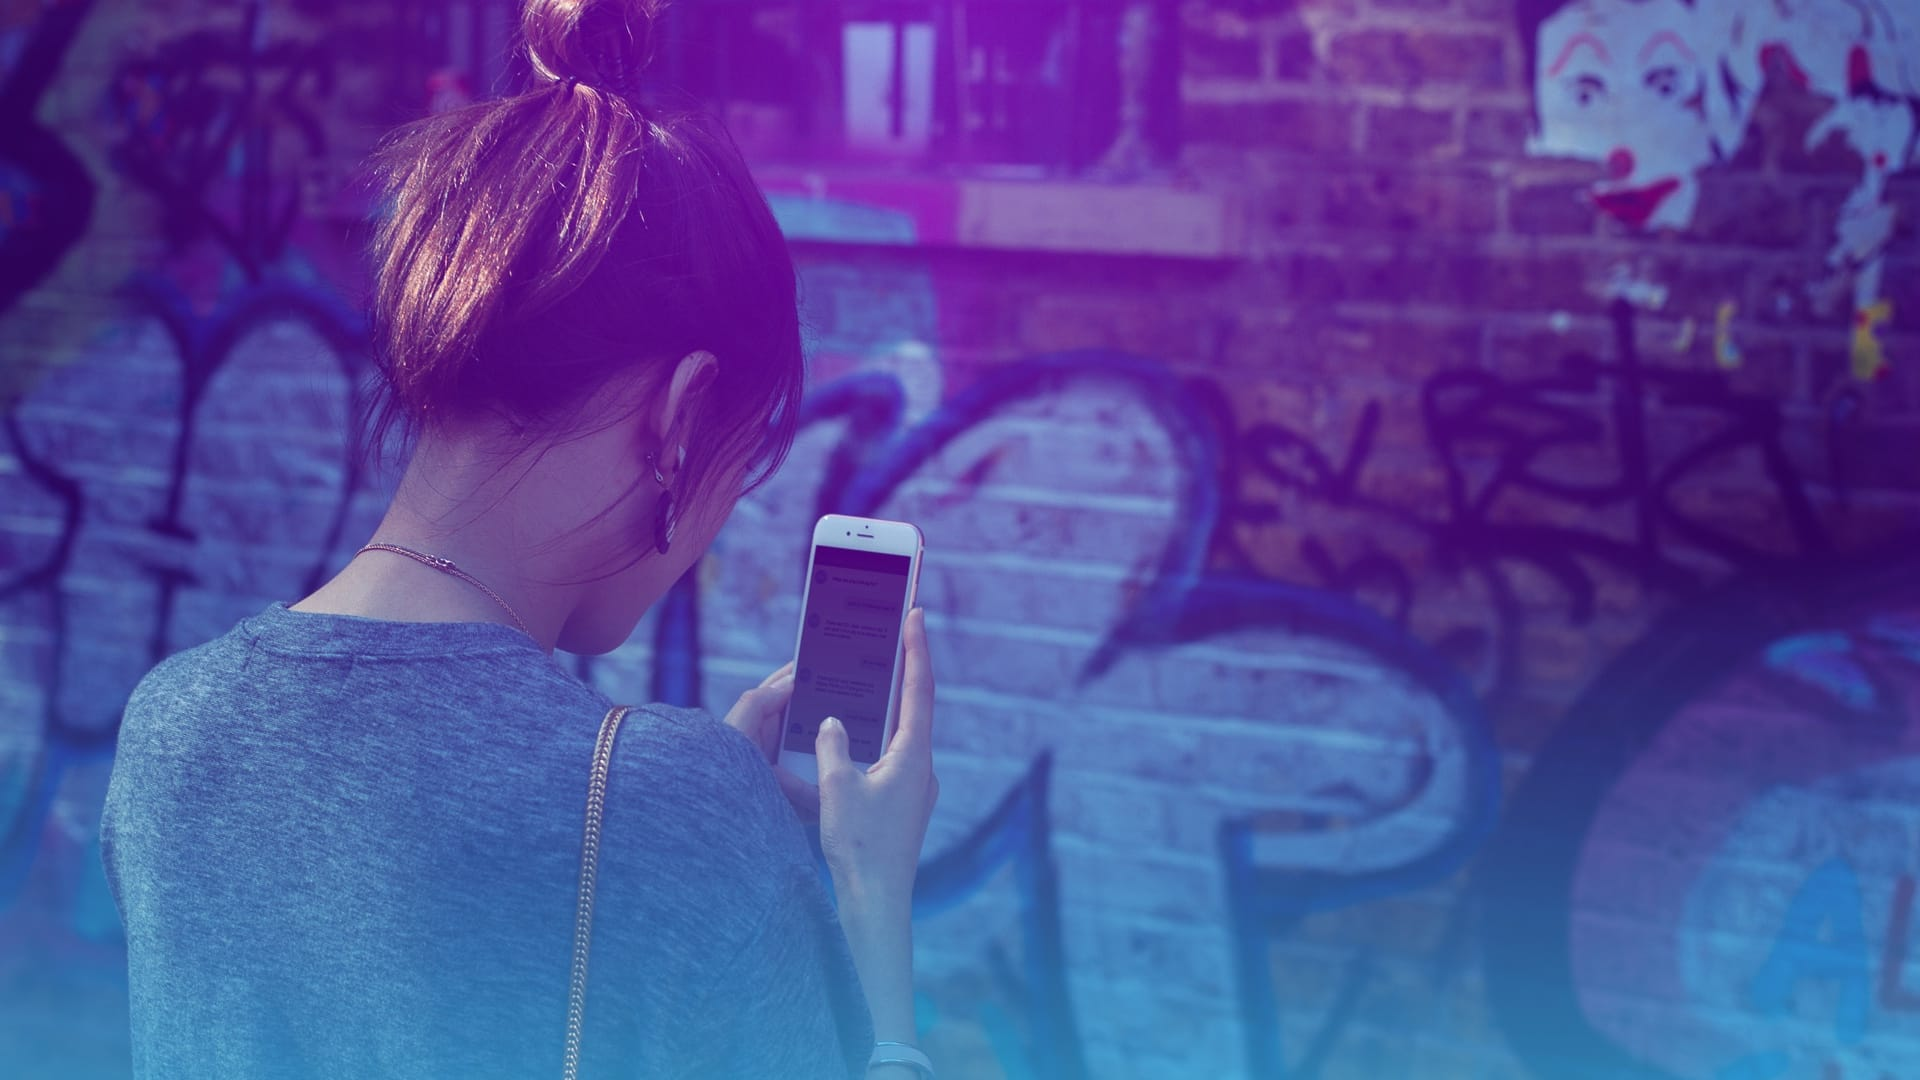
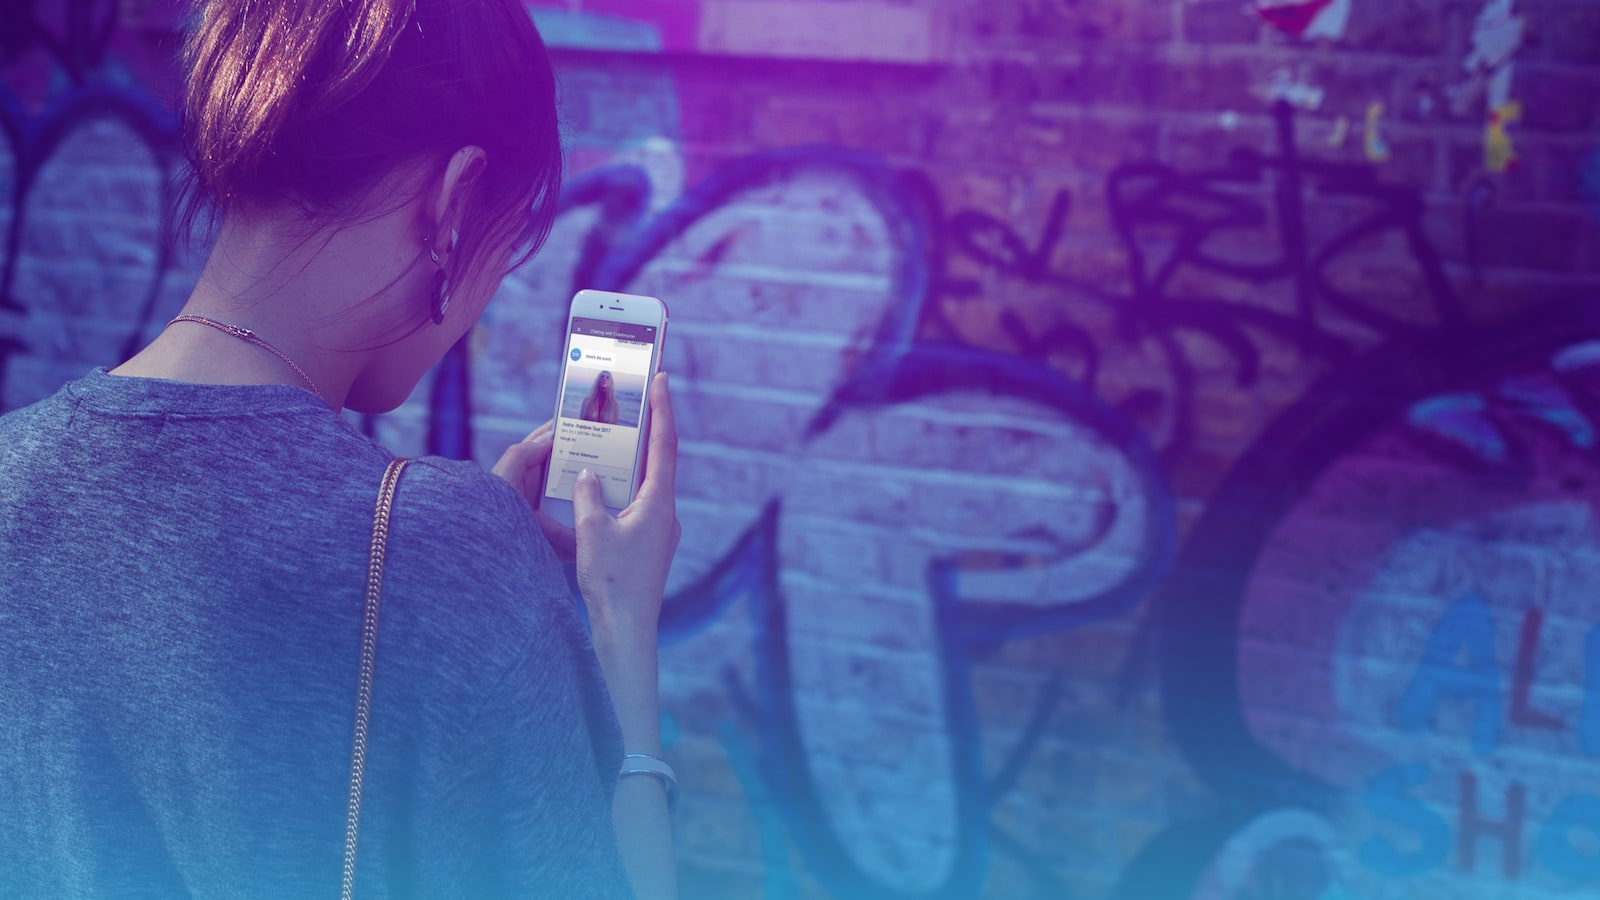
Improved bg image quality

diff --git a/_layouts/home.html b/_layouts/home.html
@@ -37,7 +37,9 @@ layout: default
         medium-10 medium-centered large-8 columns
     {% endcase %}
   {% endcapture %}
-  <article id="product-{{ product.title | slugify }}" data-magellan-target="product-{{ product.title | slugify }}" class="product text-center image-interest-{{ product.bg-image-interest }}" style="background-image:url({{ product.bg-image | prepend: 'assets/images/' | relative_url }})">
+  {% assign bgImg1x = product.bg-image | prepend: 'assets/images/' | relative_url %}
+  {% assign bgImg2x = bgImg1x | replace: '.jpg', '@2x.jpg' %}
+  <article id="product-{{ product.title | slugify }}" data-magellan-target="product-{{ product.title | slugify }}" class="product text-center image-interest-{{ product.bg-image-interest }}" data-interchange="[{{ bgImg1x }}, small], [{{ bgImg2x }}, xxlarge], [{{ bgImg2x }}, retina]">
     <div class="product-icon" data-sticky-container>
       <div class="sticky" data-sticky data-options="anchor:product-{{ product.title | slugify }};marginTop:5;stickyOn:medium">
         <div class="sticky-content">

diff --git a/early-access.html b/early-access.html
@@ -10,10 +10,11 @@ twitter-image: /assets/images/early-access-open-twitter-large.png
 ---
 
 {% assign sorted_products = site.products | sort: 'order' %}
-{% assign image = sorted_products.first.bg-image | prepend: 'assets/images/' | relative_url %}
+{% assign bgImg1x = sorted_products.first.bg-image | prepend: 'assets/images/' | relative_url %}
+{% assign bgImg2x = bgImg1x | replace: '.jpg', '@2x.jpg' %}
 {% assign image-interest = sorted_products.first.bg-image-interest %}
 
-<div class="eap-page image-interest-{{ image-interest }}" style="background-image:url({{ image }})">
+<div class="eap-page image-interest-{{ image-interest }}" data-interchange="[{{ bgImg1x }}, small], [{{ bgImg2x }}, xxlarge], [{{ bgImg2x }}, retina]">
   <div class="content text-center">
     <form action="//ticketmaster.us15.list-manage.com/subscribe/post-json?u=5f3735e85240d46281743bbcc&amp;id=d86d9ccf21&amp;c=?" method="get" id="mc-embedded-subscribe-form" name="mc-embedded-subscribe-form" data-abide novalidate>
       <div class="row small-collapse medium-uncollapse">

diff --git a/_layouts/product.html b/_layouts/product.html
@@ -31,7 +31,9 @@ layout: default
 {% if page.detail-image %}
   <div class="background" style="background-image:url({{ page.detail-image | prepend: 'assets/images/' | relative_url }})">{{ overlay }}</div>
 {% else %}
-  <div class="background image-interest-{{ page.bg-image-interest }}" style="background-image:url({{ page.bg-image | prepend: 'assets/images/' | relative_url }})">{{ overlay }}</div>
+  {% assign bgImg1x = page.bg-image | prepend: 'assets/images/' | relative_url %}
+  {% assign bgImg2x = bgImg1x | replace: '.jpg', '@2x.jpg' %}
+  <div class="background image-interest-{{ page.bg-image-interest }}" data-interchange="[{{ bgImg1x }}, small], [{{ bgImg2x }}, xxlarge], [{{ bgImg2x }}, retina]">{{ overlay }}</div>
 {% endif %}
 <img class="product-icon" src="{{ page.icon | prepend: 'assets/images/' | relative_url }}" alt="">
 <div class="row small-collapse large-uncollapse">

diff --git a/_products/shortlist.md b/_products/shortlist.md
@@ -12,7 +12,7 @@ image:
   width: 1200
 twitter-image: /assets/images/shortlist-open-twitter-large.png
 
-bg-image: productBackground-crop2.jpg
+bg-image: shortlistBackground.jpg
 bg-image-interest: right
 detail-overlay: ui_element-small.png
 
